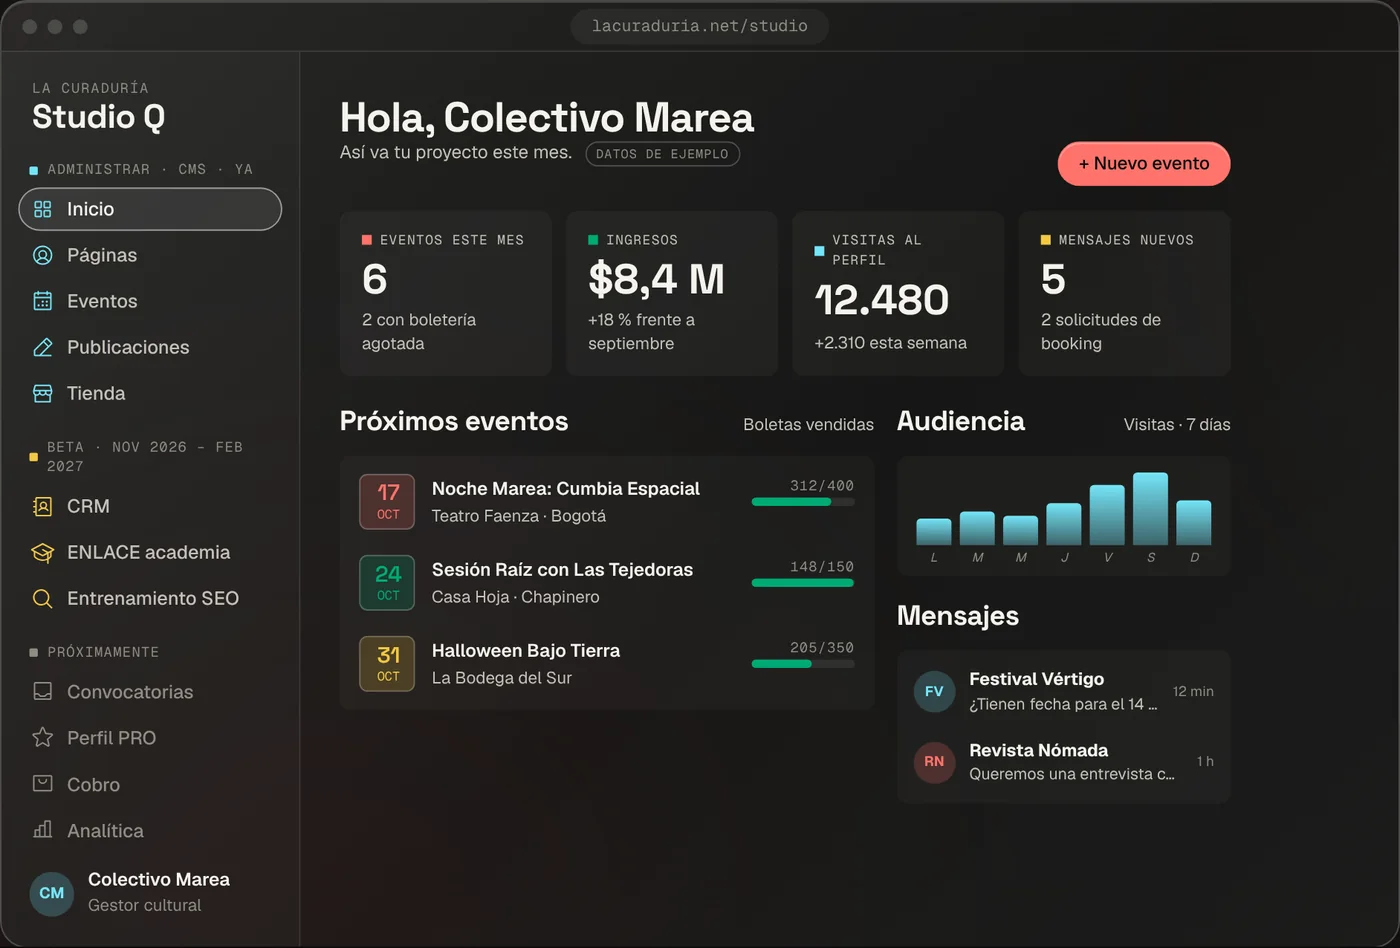
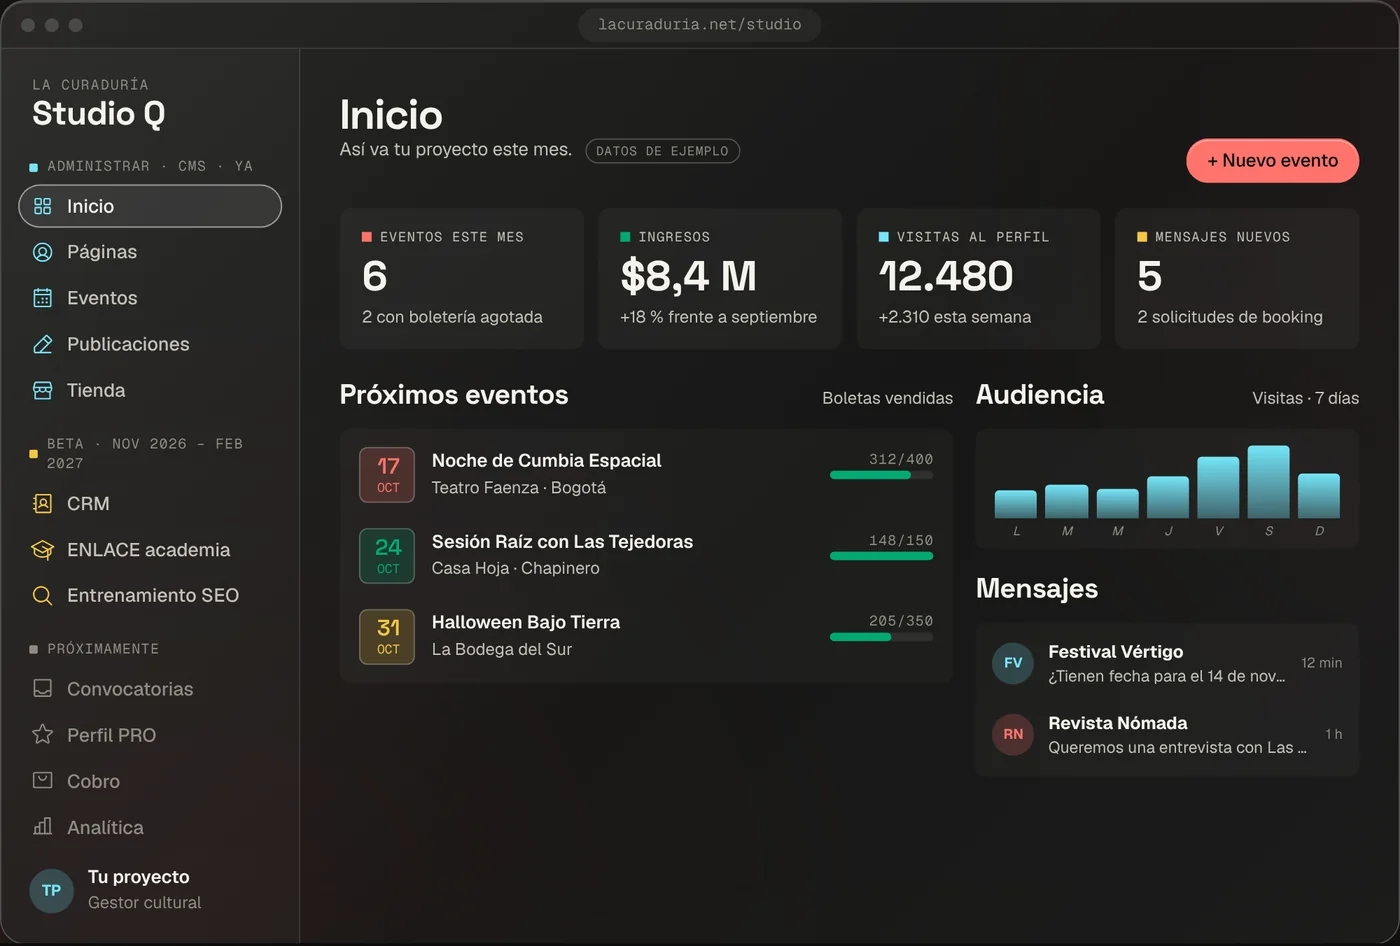
Plan Founder incluye todo lo del plan Pro; Studio Q sin el teléfono; panel de Inicio sin nombre de proyecto
Claude-Session: https://claude.ai/code/session_013ns4ecBsLFtjFuJTgQGV7z

diff --git a/index.html b/index.html
@@ -25,7 +25,7 @@
 <link rel="preload" href="/fuentes/space-grotesk.woff2" as="font" type="font/woff2" crossorigin>
 <link rel="preload" href="/fuentes/geist.woff2" as="font" type="font/woff2" crossorigin>
 <link rel="stylesheet" href="/estilo/landing.css?v=20261012e">
-<link rel="stylesheet" href="/estilo/demo.css?v=20261012b">
+<link rel="stylesheet" href="/estilo/demo.css?v=20261012c">
 <!-- Medición: pega aquí el ID de Google Analytics 4 (G-XXXX) y el de la conversión de Google Ads (AW-XXXX/etiqueta). Vacíos, no se carga nada de Google. -->
 <meta name="lc-ga4" content="">
 <meta name="lc-ads" content="">
@@ -438,7 +438,7 @@ footer.site-footer{}
       </div>
       <div class="t-escena t-entra t-entra-3">
         <button type="button" class="t-escena-pc" onclick="navTo('preventa')" aria-label="Studio Q: ver la página para quienes hacen la cultura">
-          <img src="/img/escena/terminal.webp?v=8" alt="Studio Q: el panel de gestión con el perfil y press kit de un artista" width="1400" height="948" fetchpriority="high">
+          <img src="/img/escena/terminal.webp?v=9" alt="Studio Q: el panel de gestión con el perfil y press kit de un artista" width="1400" height="948" fetchpriority="high">
           <span class="t-escena-rotulo" style="--c: var(--p-coral);">Studio Q · para quienes gestionan la cultura</span>
         </button>
         <button type="button" class="t-escena-tel" onclick="navTo('la-guia')" aria-label="Catálogo Q: ver la página para quienes viven la cultura">
@@ -519,7 +519,7 @@ footer.site-footer{}
           <button type="button" class="t-btn t-btn-sec" onclick="navTo('preventa','t-fun-precio')">Ver la preventa</button>
         </div>
       </div>
-      <button type="button" class="t-producto-img t-rv t-rv-2" onclick="navTo('preventa')" aria-label="Ver Studio Q"><img src="/img/escena/terminal.webp?v=8" alt="" width="1400" height="948" loading="lazy"></button>
+      <button type="button" class="t-producto-img t-rv t-rv-2" onclick="navTo('preventa')" aria-label="Ver Studio Q"><img src="/img/escena/terminal.webp?v=9" alt="" width="1400" height="948" loading="lazy"></button>
     </div>
   </section>
 
@@ -581,6 +581,7 @@ footer.site-footer{}
           <p class="t-texto">En dos pagos de $100.000: uno hoy y otro antes de marzo de 2027. El año empieza con el lanzamiento, en marzo de 2027.</p>
           <ul class="t-sus-lista">
             <li><svg aria-hidden="true" focusable="false" xmlns="http://www.w3.org/2000/svg" viewBox="0 0 256 256" fill="currentColor"><path d="M229.66,77.66l-128,128a8,8,0,0,1-11.32,0l-56-56a8,8,0,0,1,11.32-11.32L96,188.69,218.34,66.34a8,8,0,0,1,11.32,11.32Z"/></svg><span><b>Todo lo del plan gratis</b></span></li>
+            <li><svg aria-hidden="true" focusable="false" xmlns="http://www.w3.org/2000/svg" viewBox="0 0 256 256" fill="currentColor"><path d="M229.66,77.66l-128,128a8,8,0,0,1-11.32,0l-56-56a8,8,0,0,1,11.32-11.32L96,188.69,218.34,66.34a8,8,0,0,1,11.32,11.32Z"/></svg><span><b>Todo lo del plan Pro:</b> almacenamiento de recursos de gestión, fotografías y documentos; automatización de contratos; coordinación de campañas colaborativas; modo gira, y más</span></li>
             <li><svg aria-hidden="true" focusable="false" xmlns="http://www.w3.org/2000/svg" viewBox="0 0 256 256" fill="currentColor"><path d="M229.66,77.66l-128,128a8,8,0,0,1-11.32,0l-56-56a8,8,0,0,1,11.32-11.32L96,188.69,218.34,66.34a8,8,0,0,1,11.32,11.32Z"/></svg><span><b>Insignia Founder</b> en tu perfil</span></li>
             <li><svg aria-hidden="true" focusable="false" xmlns="http://www.w3.org/2000/svg" viewBox="0 0 256 256" fill="currentColor"><path d="M229.66,77.66l-128,128a8,8,0,0,1-11.32,0l-56-56a8,8,0,0,1,11.32-11.32L96,188.69,218.34,66.34a8,8,0,0,1,11.32,11.32Z"/></svg><span><b>Acceso a las betas antes que nadie:</b> ENLACE academia desde noviembre de 2026; CRM y entrenamiento SEO desde febrero de 2027</span></li>
             <li><svg aria-hidden="true" focusable="false" xmlns="http://www.w3.org/2000/svg" viewBox="0 0 256 256" fill="currentColor"><path d="M229.66,77.66l-128,128a8,8,0,0,1-11.32,0l-56-56a8,8,0,0,1,11.32-11.32L96,188.69,218.34,66.34a8,8,0,0,1,11.32,11.32Z"/></svg><span><b>Beneficios desde hoy:</b> tu perfil compartido en nuestras redes, una reseña de tu proyecto y tu perfil en el catálogo que presentamos a agentes europeos</span></li>
@@ -1437,16 +1438,16 @@ window.addEventListener('load', function(){
                   <button type="button" data-ir="cobro" data-estado="pronto"><svg aria-hidden="true" focusable="false" xmlns="http://www.w3.org/2000/svg" viewBox="0 0 256 256" fill="currentColor"><path d="M216,40H40A16,16,0,0,0,24,56V200a16,16,0,0,0,16,16H216a16,16,0,0,0,16-16V56A16,16,0,0,0,216,40Zm0,160H40V56H216V200ZM176,88a48,48,0,0,1-96,0,8,8,0,0,1,16,0,32,32,0,0,0,64,0,8,8,0,0,1,16,0Z"/></svg> Cobro</button>
                   <button type="button" data-ir="analitica" data-estado="pronto"><svg aria-hidden="true" focusable="false" xmlns="http://www.w3.org/2000/svg" viewBox="0 0 256 256" fill="currentColor"><path d="M224,200h-8V40a8,8,0,0,0-8-8H152a8,8,0,0,0-8,8V80H96a8,8,0,0,0-8,8v40H48a8,8,0,0,0-8,8v64H32a8,8,0,0,0,0,16H224a8,8,0,0,0,0-16ZM160,48h40V200H160ZM104,96h40V200H104ZM56,144H88v56H56Z"/></svg> Analítica</button>
                 </div>
-                <p class="t-pro-org"><span aria-hidden="true">CM</span>Colectivo Marea<small>Gestor cultural</small></p>
+                <p class="t-pro-org"><span aria-hidden="true">TP</span>Tu proyecto<small>Gestor cultural</small></p>
               </aside>
 
               <div class="t-pro-main">
                 <!-- Inicio (ya): el panel de Studio Q, como el real -->
                 <section class="t-pro-vista t-pro-inicio" data-vista="inicio">
-                  <header class="t-pro-cab"><div><h3>Hola, Colectivo Marea</h3><p class="t-pro-sub">Así va tu proyecto este mes. <span class="t-pro-ejemplo">Datos de ejemplo</span></p></div><button type="button" class="t-pro-btn t-pro-btn-pri" data-ir="eventos">+ Nuevo evento</button></header>
+                  <header class="t-pro-cab"><div><h3>Inicio</h3><p class="t-pro-sub">Así va tu proyecto este mes. <span class="t-pro-ejemplo">Datos de ejemplo</span></p></div><button type="button" class="t-pro-btn t-pro-btn-pri" data-ir="eventos">+ Nuevo evento</button></header>
                   <div class="t-pro-kpis"><div class="t-pro-kpi" style="--c: var(--p-coral);"><small>Eventos este mes</small><b>6</b><span>2 con boletería agotada</span></div><div class="t-pro-kpi" style="--c: var(--p-green);"><small>Ingresos</small><b>$8,4 M</b><span>+18 % frente a septiembre</span></div><div class="t-pro-kpi" style="--c: var(--p-cyan);"><small>Visitas al perfil</small><b>12.480</b><span>+2.310 esta semana</span></div><div class="t-pro-kpi" style="--c: var(--p-yellow-clara);"><small>Mensajes nuevos</small><b>5</b><span>2 solicitudes de booking</span></div></div>
                   <div class="t-pro-dos">
-                    <div><div class="t-pro-h4"><b>Próximos eventos</b><small>Boletas vendidas</small></div><div class="t-pro-lista-llego"><button type="button" class="t-pro-llego" data-ir="eventos"><span class="t-pro-fecha" style="--c: var(--p-coral);"><b>17</b>oct</span><span><b>Noche Marea: Cumbia Espacial</b><em>Teatro Faenza · Bogotá</em></span><i class="t-pro-aforo" style="--v: 78%;"><small>312/400</small></i></button><button type="button" class="t-pro-llego" data-ir="eventos"><span class="t-pro-fecha" style="--c: var(--p-green);"><b>24</b>oct</span><span><b>Sesión Raíz con Las Tejedoras</b><em>Casa Hoja · Chapinero</em></span><i class="t-pro-aforo" style="--v: 99%;"><small>148/150</small></i></button><button type="button" class="t-pro-llego" data-ir="eventos"><span class="t-pro-fecha" style="--c: var(--p-yellow-clara);"><b>31</b>oct</span><span><b>Halloween Bajo Tierra</b><em>La Bodega del Sur</em></span><i class="t-pro-aforo" style="--v: 59%;"><small>205/350</small></i></button></div></div>
+                    <div><div class="t-pro-h4"><b>Próximos eventos</b><small>Boletas vendidas</small></div><div class="t-pro-lista-llego"><button type="button" class="t-pro-llego" data-ir="eventos"><span class="t-pro-fecha" style="--c: var(--p-coral);"><b>17</b>oct</span><span><b>Noche de Cumbia Espacial</b><em>Teatro Faenza · Bogotá</em></span><i class="t-pro-aforo" style="--v: 78%;"><small>312/400</small></i></button><button type="button" class="t-pro-llego" data-ir="eventos"><span class="t-pro-fecha" style="--c: var(--p-green);"><b>24</b>oct</span><span><b>Sesión Raíz con Las Tejedoras</b><em>Casa Hoja · Chapinero</em></span><i class="t-pro-aforo" style="--v: 99%;"><small>148/150</small></i></button><button type="button" class="t-pro-llego" data-ir="eventos"><span class="t-pro-fecha" style="--c: var(--p-yellow-clara);"><b>31</b>oct</span><span><b>Halloween Bajo Tierra</b><em>La Bodega del Sur</em></span><i class="t-pro-aforo" style="--v: 59%;"><small>205/350</small></i></button></div></div>
                     <div><div class="t-pro-h4"><b>Audiencia</b><small>Visitas · 7 días</small></div><div class="t-pro-grafica" role="img" aria-label="Visitas al perfil en los últimos 7 días, el sábado es el día más alto"><i style="--v: 38%;"><small>L</small></i><i style="--v: 46%;"><small>M</small></i><i style="--v: 41%;"><small>M</small></i><i style="--v: 58%;"><small>J</small></i><i style="--v: 84%;"><small>V</small></i><i style="--v: 100%;"><small>S</small></i><i style="--v: 62%;"><small>D</small></i></div>
                       <div class="t-pro-h4"><b>Mensajes</b></div><div class="t-pro-lista-llego"><button type="button" class="t-pro-msg" data-ir="crm"><span class="t-pro-av" style="--c: var(--p-cyan);">FV</span><span><b>Festival Vértigo</b><em>¿Tienen fecha para el 14 de noviembre?</em></span><small>12 min</small></button><button type="button" class="t-pro-msg" data-ir="crm"><span class="t-pro-av" style="--c: var(--p-coral);">RN</span><span><b>Revista Nómada</b><em>Queremos una entrevista con Las Tejedoras</em></span><small>1 h</small></button></div></div>
                   </div>
@@ -1752,6 +1753,7 @@ window.addEventListener('load', function(){
           <p class="t-texto">En dos pagos de $100.000: uno hoy y otro antes de marzo de 2027. El año empieza con el lanzamiento, en marzo de 2027.</p>
           <ul class="t-sus-lista">
             <li><svg aria-hidden="true" focusable="false" xmlns="http://www.w3.org/2000/svg" viewBox="0 0 256 256" fill="currentColor"><path d="M229.66,77.66l-128,128a8,8,0,0,1-11.32,0l-56-56a8,8,0,0,1,11.32-11.32L96,188.69,218.34,66.34a8,8,0,0,1,11.32,11.32Z"/></svg><span><b>Todo lo del plan gratis</b></span></li>
+            <li><svg aria-hidden="true" focusable="false" xmlns="http://www.w3.org/2000/svg" viewBox="0 0 256 256" fill="currentColor"><path d="M229.66,77.66l-128,128a8,8,0,0,1-11.32,0l-56-56a8,8,0,0,1,11.32-11.32L96,188.69,218.34,66.34a8,8,0,0,1,11.32,11.32Z"/></svg><span><b>Todo lo del plan Pro:</b> almacenamiento de recursos de gestión, fotografías y documentos; automatización de contratos; coordinación de campañas colaborativas; modo gira, y más</span></li>
             <li><svg aria-hidden="true" focusable="false" xmlns="http://www.w3.org/2000/svg" viewBox="0 0 256 256" fill="currentColor"><path d="M229.66,77.66l-128,128a8,8,0,0,1-11.32,0l-56-56a8,8,0,0,1,11.32-11.32L96,188.69,218.34,66.34a8,8,0,0,1,11.32,11.32Z"/></svg><span><b>Insignia Founder</b> en tu perfil</span></li>
             <li><svg aria-hidden="true" focusable="false" xmlns="http://www.w3.org/2000/svg" viewBox="0 0 256 256" fill="currentColor"><path d="M229.66,77.66l-128,128a8,8,0,0,1-11.32,0l-56-56a8,8,0,0,1,11.32-11.32L96,188.69,218.34,66.34a8,8,0,0,1,11.32,11.32Z"/></svg><span><b>Acceso a las betas antes que nadie:</b> ENLACE academia desde noviembre de 2026; CRM y entrenamiento SEO desde febrero de 2027</span></li>
             <li><svg aria-hidden="true" focusable="false" xmlns="http://www.w3.org/2000/svg" viewBox="0 0 256 256" fill="currentColor"><path d="M229.66,77.66l-128,128a8,8,0,0,1-11.32,0l-56-56a8,8,0,0,1,11.32-11.32L96,188.69,218.34,66.34a8,8,0,0,1,11.32,11.32Z"/></svg><span><b>Beneficios desde hoy:</b> tu perfil compartido en nuestras redes, una reseña de tu proyecto y tu perfil en el catálogo que presentamos a agentes europeos</span></li>

diff --git a/estilo/demo.css b/estilo/demo.css
@@ -525,3 +525,10 @@
 .t-pro-msg em { font-style: normal; font-size: 11.5px; color: var(--t-text-2); white-space: nowrap; overflow: hidden; text-overflow: ellipsis; }
 .t-pro-msg small { font-size: 10px; color: var(--t-text-3); }
 .t-pro-inicio .t-pro-dos > div > .t-pro-h4:not(:first-child) { margin-top: 14px; }
+
+/* Página de Studio Q: solo el computador, sin el teléfono (12 oct) */
+#demo-terminal .t-demo { display: block; }
+#demo-terminal .t-movil, #demo-terminal .t-aviso-movil { display: none !important; }
+#demo-terminal .t-pc { width: 100%; }
+#demo-terminal .t-pro-main { padding-right: 28px; }
+#demo-terminal .t-pc { max-width: 1000px; margin-inline: auto; }
